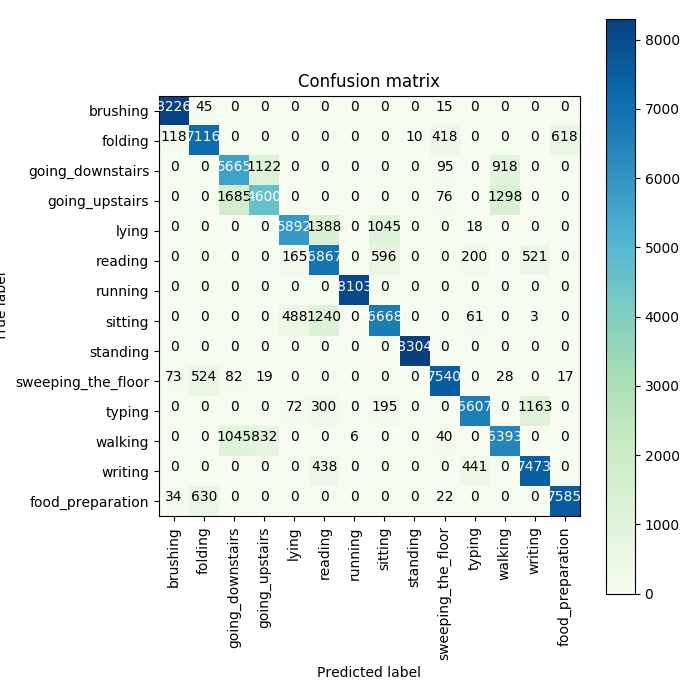
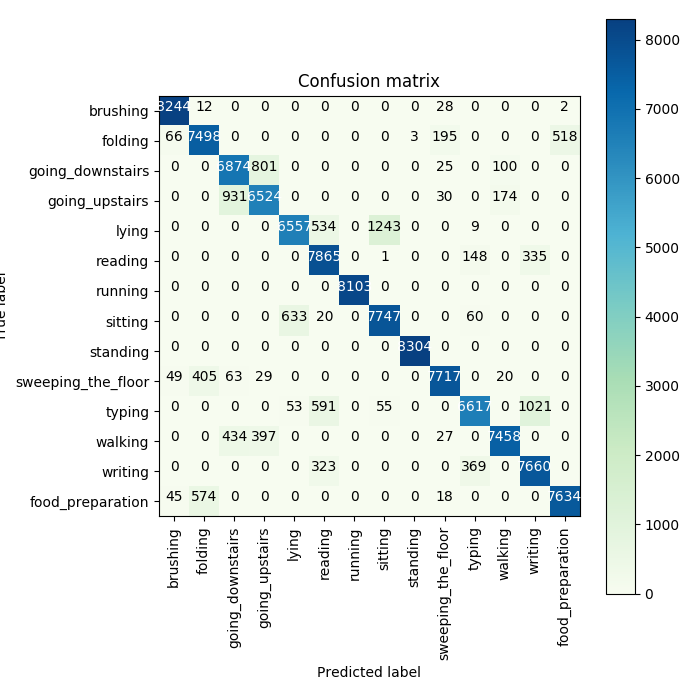
.

diff --git a/server/classifier/cv/knn.py b/server/classifier/cv/knn.py
@@ -62,12 +62,12 @@ def run_cv(n_neighbors=50, data_source='', activities=None, permutate_xyz=False)
 
 
 if __name__ == '__main__':
-    n_neighbors = [1, 3, 5, 10, 15, 20, 25, 30]
+    n_neighbors = [1, 3, 5, 7, 10, 15, 20]
 
     for n in n_neighbors:
         accuracy_mean, accuracy_std_dev, fscore_mean, fscore_std_dev = run_cv(
             n_neighbors=n,
-            data_source='sw',
+            data_source='',
             permutate_xyz=False,
             activities=[
                 'brushing',
